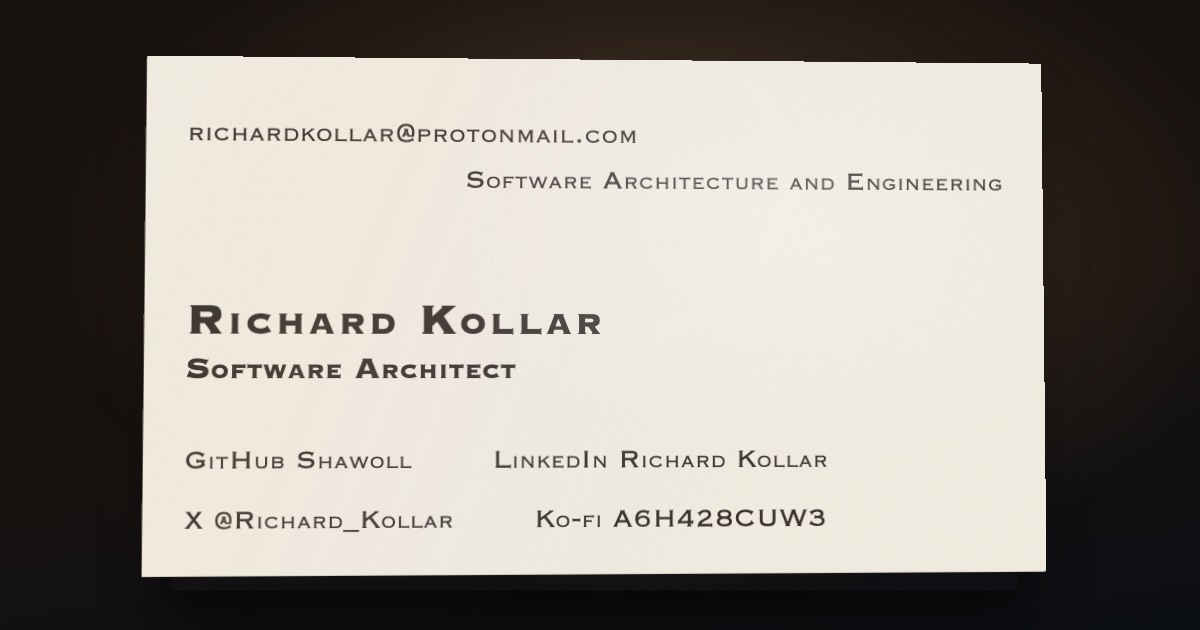
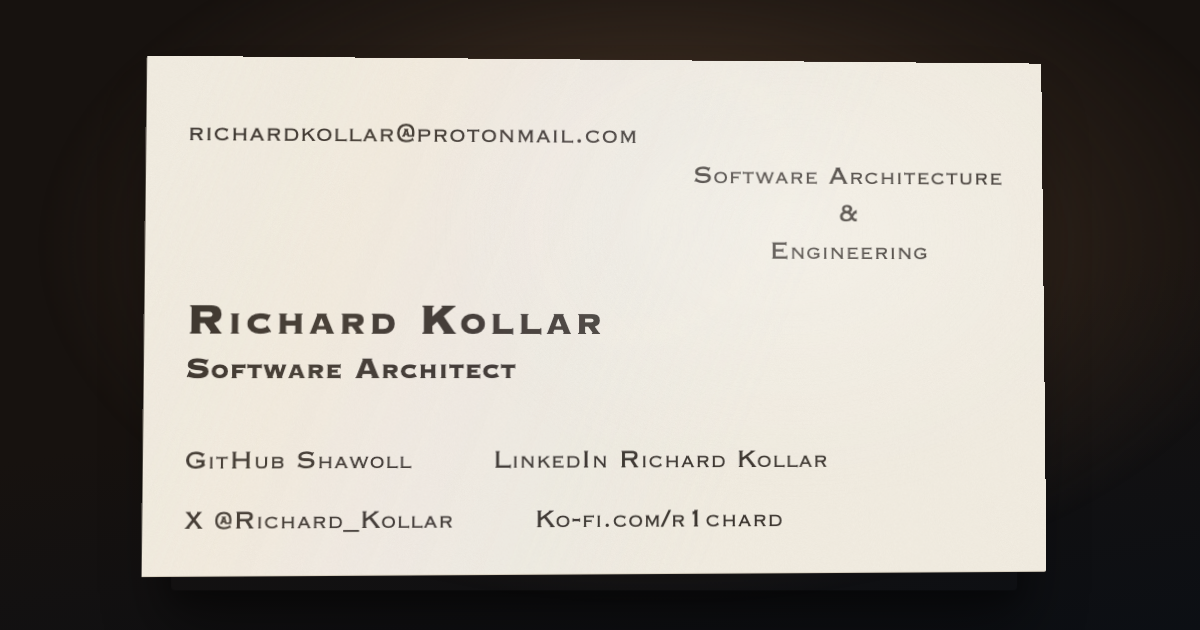
fix: centering

diff --git a/index.html b/index.html
@@ -208,10 +208,12 @@
       color: inherit;
     }
     .dept {
-      top: 21%;
+      top: 19%;
       right: 4.5%;
       font-size: 3.4em;
       font-weight: 300;
+      line-height: 1.25;
+      text-align: center;
     }
     h1 {
       top: 46%;
@@ -266,7 +268,7 @@
     /* The watermark: only there when the card is tilted toward the light */
     .watermark {
       top: 12%;
-      left: 62%;
+      left: 50%;
       height: 76%;
       width: auto;
       transform: translateX(-50%);
@@ -329,7 +331,7 @@
     @media (max-width: 599px) {
       :root { --max: 10deg; }
       .email { font-size: 4.8em; top: 6.5%; }
-      .dept { font-size: 4em; top: 21%; }
+      .dept { font-size: 4em; top: 18%; line-height: 1.2; }
       h1 { font-size: 6.2em; top: 45%; }
       .role { font-size: 4.4em; top: 57%; }
       .links { font-size: 4em; bottom: 4.5%; left: 4.5%; right: 3.5%; }
@@ -372,7 +374,7 @@
             <use href="#cat" class="wm-light"/>
           </svg>
           <a class="email" href="#" data-u="richardkollar" data-d="protonmail.com" aria-label="Email Richard"></a>
-          <p class="dept">Software Architecture and Engineering</p>
+          <p class="dept">Software Architecture<br>&amp;<br>Engineering</p>
           <h1>Richard Kollar</h1>
           <p class="role">Software Architect</p>
           <nav class="links" aria-label="Contact">
@@ -380,7 +382,7 @@
               <li><a href="https://github.com/Shawoll" rel="me">GitHub Shawoll</a></li>
               <li><a href="https://www.linkedin.com/in/richard-koll%C3%A1r-704267132/" rel="me">LinkedIn Richard Kollar</a></li>
               <li><a href="https://x.com/Richard_Kollar" rel="me">X @Richard_Kollar</a></li>
-              <li><a href="https://ko-fi.com/A6H428CUW3" target="_blank" rel="noopener">Ko-fi A6H428CUW3</a></li>
+              <li><a href="https://ko-fi.com/r1chard" target="_blank" rel="noopener">Ko-fi.com/r1chard</a></li>
             </ul>
           </nav>
           <div class="pearl" aria-hidden="true"></div>
